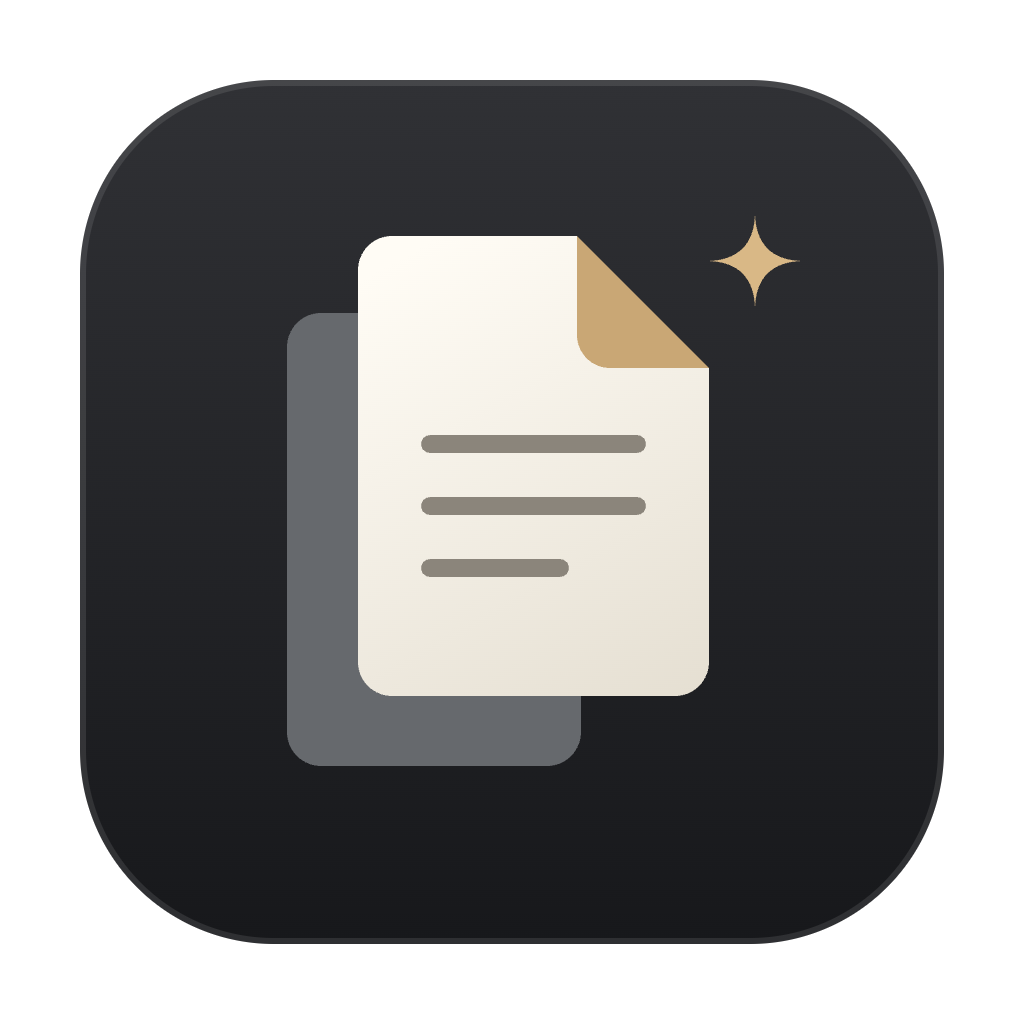
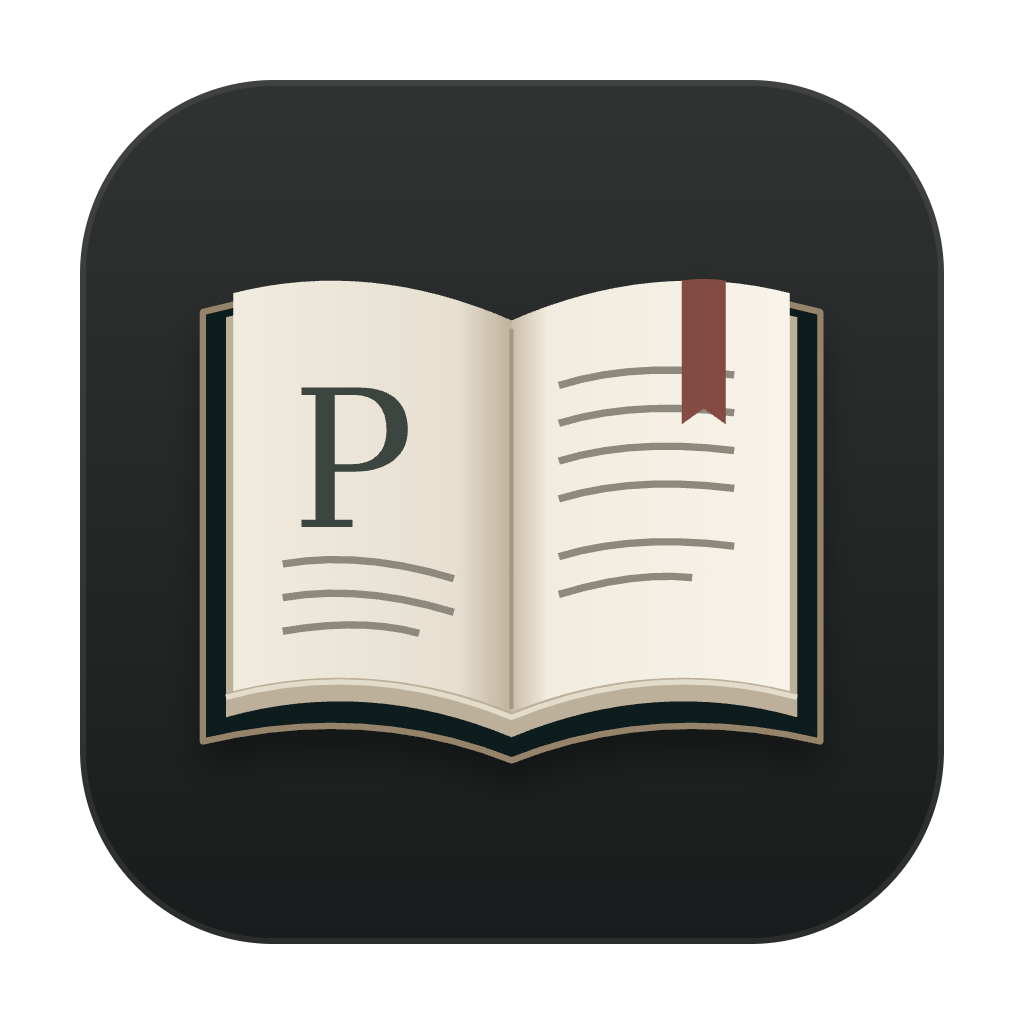
Update PaperGlim identity and Apple Silicon download

Changed region(s): [[0.1875, 0.2188, 0.8125, 0.75]]

diff --git a/paperglim/style.css b/paperglim/style.css
@@ -1,11 +1,11 @@
 @font-face{font-family:Pretendard;src:url('assets/PretendardVariable.woff2') format('woff2');font-weight:100 900;font-style:normal;font-display:swap}
 :root{color-scheme:dark;--ground:#101112;--panel:#191a1c;--line:#313236;--ink:#eeefef;--muted:#a9aaae;--paper:#f1eee7;--wood:#d9b886;--measure:1180px;font-family:Pretendard,-apple-system,BlinkMacSystemFont,sans-serif;color:var(--ink);background:var(--ground);font-synthesis:none;scroll-behavior:smooth;scroll-padding-top:32px}
 *{box-sizing:border-box}body{margin:0;font-size:16px;line-height:1.75;-webkit-font-smoothing:antialiased}a{color:inherit;text-decoration:none;text-underline-offset:4px}button,a,summary{-webkit-tap-highlight-color:transparent}a,summary{touch-action:manipulation}a:focus-visible,summary:focus-visible{outline:2px solid var(--wood);outline-offset:6px;border-radius:3px}::selection{background:#6e5735;color:#fff}::-webkit-scrollbar{width:10px}::-webkit-scrollbar-track{background:var(--ground)}::-webkit-scrollbar-thumb{background:#46474b;border:2px solid var(--ground);border-radius:8px}img{display:block;max-width:100%;height:auto}svg{width:20px;height:20px;fill:none;stroke:currentColor;stroke-width:1.5;stroke-linecap:round;stroke-linejoin:round;flex:none}h1,h2,h3,p,figure{margin:0}h1,h2,h3{text-wrap:balance}h1,h2{font-weight:580;letter-spacing:-.035em;line-height:1.22}h3{font-weight:560;letter-spacing:-.025em;line-height:1.45}p{word-break:keep-all;overflow-wrap:break-word}small{font-size:13px;line-height:1.8}.wrap{width:min(var(--measure),calc(100% - 96px));margin-inline:auto}.skip{position:fixed;left:12px;top:-100px;padding:8px 16px;background:var(--paper);color:var(--ground);z-index:10}.skip:focus{top:12px}.site-header{display:flex;align-items:center;justify-content:space-between;height:104px}.wordmark{display:flex;align-items:center;gap:11px;font-size:22px;font-weight:610;letter-spacing:-.04em}.site-header nav{display:flex;gap:32px;align-items:center;font-size:14px;color:#b9babe}.site-header nav a:hover{color:var(--ink)}.source-link{display:flex;gap:6px;align-items:center}.source-link svg{width:15px;height:15px}
-.hero{display:grid;grid-template-columns:1fr 290px;gap:0 60px;padding-top:88px}.hero h1{font-size:clamp(48px,5.7vw,80px);line-height:1.2}.hero-copy>p{color:var(--muted);font-size:20px;line-height:1.8;margin-top:30px;letter-spacing:-.025em}.hero-download{display:flex;flex-direction:column;align-items:center;justify-content:flex-end;padding-bottom:4px}.app-icon{margin-bottom:14px}.button{display:inline-flex;align-items:center;justify-content:center;gap:10px;border-radius:9px;font-size:15px;font-weight:580;line-height:1.3;min-height:50px;padding:15px 22px;white-space:nowrap;transition:background-color .18s ease}.primary{background:var(--paper);color:#1b1c1e}.primary:hover{background:#fff}.hero-download .primary{width:100%}.intel-link{display:flex;align-items:center;gap:8px;font-size:13px;padding:10px 0 5px;color:#c1c2c6}.intel-link svg{width:15px;height:15px}.intel-link:hover{text-decoration:underline}.download-meta{font-size:12px;color:var(--muted);margin-top:7px}.install-note{font-size:11px;color:var(--muted);text-decoration:underline;margin-top:3px}.product-shot{grid-column:1/-1;margin-top:70px}.product-shot>img{width:100%;border:1px solid #353639;border-radius:12px;box-shadow:0 30px 64px -30px #0009}.product-shot figcaption{display:flex;justify-content:space-between;gap:16px;color:var(--muted);font-size:12px;margin-top:16px}.product-shot figcaption a{display:flex;align-items:center;gap:5px}.product-shot figcaption a:hover{color:var(--ink)}.product-shot figcaption svg{width:14px;height:14px}
+.hero{display:grid;grid-template-columns:1fr 290px;gap:0 60px;padding-top:88px}.hero h1{font-size:clamp(48px,5.7vw,80px);line-height:1.2}.hero-copy>p{color:var(--muted);font-size:20px;line-height:1.8;margin-top:30px;letter-spacing:-.025em}.hero-download{display:flex;flex-direction:column;align-items:center;justify-content:flex-end;padding-bottom:4px}.app-icon{margin-bottom:14px}.button{display:inline-flex;align-items:center;justify-content:center;gap:10px;border-radius:9px;font-size:15px;font-weight:580;line-height:1.3;min-height:50px;padding:15px 22px;white-space:nowrap;transition:background-color .18s ease}.primary{background:var(--paper);color:#1b1c1e}.primary:hover{background:#fff}.hero-download .primary{width:100%}.download-meta{font-size:12px;color:var(--muted);margin-top:7px}.install-note{font-size:11px;color:var(--muted);text-decoration:underline;margin-top:3px}.product-shot{grid-column:1/-1;margin-top:70px}.product-shot>img{width:100%;border:1px solid #353639;border-radius:12px;box-shadow:0 30px 64px -30px #0009}.product-shot figcaption{display:flex;justify-content:space-between;gap:16px;color:var(--muted);font-size:12px;margin-top:16px}.product-shot figcaption a{display:flex;align-items:center;gap:5px}.product-shot figcaption a:hover{color:var(--ink)}.product-shot figcaption svg{width:14px;height:14px}
 .reading{padding-top:140px}.section-heading{display:flex;justify-content:space-between;align-items:flex-end;gap:48px}.section-heading h2,.connections>h2{font-size:40px}.section-heading>p{color:var(--muted);font-size:15px;margin-bottom:4px;line-height:1.9}.reading-detail{margin-top:60px;display:grid;grid-template-columns:320px minmax(0,1fr);gap:65px;align-items:center}.feature-copy h3,.feature-pair h3{font-size:22px;margin-bottom:14px}.feature-copy>p,.feature-pair p{font-size:15px;color:var(--muted);line-height:1.9}.feature-copy .feature-footnote{margin-top:24px;font-size:13px;color:#b8a285}.detail-shot{overflow:hidden;background:var(--panel);border-radius:10px}.detail-shot>img{width:100%;height:auto}.feature-pair{display:grid;grid-template-columns:1fr 1fr;gap:100px;margin-top:65px;padding-top:42px;border-top:1px solid var(--line)}.feature-pair article{max-width:470px}.feature-icon{width:27px;height:27px;color:#bebfc2;margin-bottom:20px}.connections{padding-top:140px;display:grid;grid-template-columns:1fr 1.25fr;gap:100px}.connection-list article+article{padding-top:35px;margin-top:35px;border-top:1px solid var(--line)}.connection-name{display:flex;align-items:center;gap:9px;margin-bottom:15px}.connection-name img{max-width:26px;max-height:26px;object-fit:contain;filter:brightness(0) invert(.92)}.connection-name h3{font-size:20px;margin-left:6px}.connection-name .zotero-mark{width:26px;height:26px;stroke:#d0d1d3;stroke-width:2.3}.connection-list p{font-size:15px;line-height:1.9;color:#c3c4c7}.connection-list small{display:block;color:var(--muted);margin-top:12px}
 .install{padding-top:140px}.install-steps{padding:0;list-style:none;counter-reset:setup;margin:56px 0 0;display:grid;grid-template-columns:repeat(3,minmax(0,1fr));gap:50px}.install-steps li{counter-increment:setup;border-top:1px solid var(--line);padding-top:24px}.install-steps li:before{content:counter(setup);display:flex;align-items:center;justify-content:center;width:28px;height:28px;border:1px solid #5a5b60;border-radius:50%;font-size:12px;color:#c7c8cc;margin-bottom:24px}.install-steps h3{font-size:19px;margin-bottom:14px}.install-steps p{color:var(--muted);font-size:14px;line-height:1.9}.install-steps a,.first-open>a{display:inline-block;font-size:12px;text-decoration:underline;color:#c4c5c9;margin-top:20px}.install-steps a:hover,.first-open>a:hover{color:white}.text-links{display:flex;gap:18px;flex-wrap:wrap}.first-open{margin-top:48px;padding:28px 32px;background:#1a1b1e;border-radius:10px;display:grid;grid-template-columns:160px 1fr;gap:0 24px}.first-open h3{font-size:16px;line-height:1.8}.first-open p{font-size:13px;color:#b8b9bf;line-height:1.9}.first-open strong{font-weight:560;color:#dadbe0}.first-open>a{grid-column:2;margin-top:12px}.faq{padding-top:125px;display:grid;grid-template-columns:.85fr 1.4fr;gap:60px}.faq h2{font-size:29px}.faq-list{border-top:1px solid var(--line)}details{border-bottom:1px solid var(--line)}summary{list-style:none;cursor:pointer;display:flex;align-items:center;justify-content:space-between;gap:24px;padding:22px 0;font-size:15px;font-weight:480;word-break:keep-all}summary::-webkit-details-marker{display:none}summary svg{width:17px;height:17px;color:var(--muted);transition:transform .15s ease}details[open] summary svg{transform:rotate(45deg)}details p{font-size:14px;color:var(--muted);padding:0 36px 25px 0;line-height:1.9}
 .closing{border-top:1px solid var(--line);margin-top:140px;padding-top:52px;padding-bottom:58px;display:flex;align-items:center;gap:20px}.closing h2{font-size:27px}.closing p{font-size:14px;color:var(--muted);margin-top:7px}.closing .button{margin-left:auto;font-size:14px}footer{border-top:1px solid var(--line);padding-top:30px;padding-bottom:30px;display:flex;align-items:center;justify-content:space-between;flex-wrap:wrap;gap:24px;color:var(--muted);font-size:12px}footer>div{display:flex;gap:20px;align-items:center}.footer-brand{font-size:14px;font-weight:560;color:var(--ink)}footer p{flex-basis:100%;font-size:11px;color:#939499}footer a:hover{text-decoration:underline}
 @media(min-width:1600px){:root{--measure:1280px}.hero{padding-top:102px}.hero h1{font-size:86px}}
 @media(max-width:1000px){.wrap{width:calc(100% - 64px)}.hero{grid-template-columns:1fr 252px;gap:0 28px;padding-top:60px}.hero h1{font-size:clamp(44px,5.5vw,60px)}.hero-copy>p{font-size:17px}.hero-download .app-icon{width:72px}.hero-download .button{font-size:13px;padding-inline:16px}.reading,.connections,.install{padding-top:100px}.section-heading h2,.connections>h2{font-size:34px}.reading-detail{grid-template-columns:260px minmax(0,1fr);gap:36px}.feature-pair{gap:50px}.connections{gap:45px}.install-steps{gap:30px}.faq{gap:30px;grid-template-columns:.8fr 1.4fr}.faq h2{font-size:24px}.closing{margin-top:100px}.closing h2{font-size:23px}.closing .button{font-size:12px}.closing>img{width:62px}}
-@media(max-width:720px){.wrap{width:calc(100% - 40px)}.site-header{height:80px}.wordmark{font-size:20px;gap:8px}.wordmark img{width:25px}.site-header nav{gap:20px;font-size:13px}.site-header nav>a:first-child{display:none}.source-link svg{display:none}.hero{display:flex;flex-direction:column;padding-top:52px}.hero h1{font-size:clamp(40px,8.6vw,58px);line-height:1.22;letter-spacing:-.04em}.hero-copy>p{font-size:16px;margin-top:24px;line-height:1.85}.hero-download{align-items:flex-start;padding:0;margin-top:32px}.hero-download .app-icon{display:none}.hero-download .primary{width:auto;font-size:14px;padding-inline:22px}.intel-link{padding-top:13px}.download-meta{margin-top:8px}.install-note{font-size:11px}.product-shot{margin-top:42px;width:100%}.product-shot>img{border-radius:7px}.product-shot figcaption{font-size:10px;margin-top:10px;gap:8px}.product-shot figcaption svg{width:12px;height:12px}.reading{padding-top:82px}.section-heading{display:block}.section-heading h2,.connections>h2{font-size:31px}.section-heading>p{margin-top:20px;font-size:14px}.reading-detail{margin-top:36px;display:flex;flex-direction:column;gap:28px;align-items:stretch}.feature-copy{max-width:50ch}.feature-copy h3,.feature-pair h3{font-size:20px}.feature-copy>p,.feature-pair p{font-size:14px}.feature-copy .feature-footnote{margin-top:14px;font-size:12px}.detail-shot{border-radius:7px}.feature-pair{grid-template-columns:1fr;gap:35px;margin-top:35px;padding-top:35px}.feature-icon{margin-bottom:15px}.connections{display:block;padding-top:84px}.connection-list{margin-top:36px}.connection-name h3{font-size:19px}.connection-list p{font-size:14px}.connection-list small{font-size:12px}.install{padding-top:84px}.install-steps{display:block;margin-top:36px}.install-steps li{display:flex;gap:20px;padding-top:24px;margin-top:28px}.install-steps li:before{flex:none;margin:1px 0 0}.install-steps h3{font-size:18px;margin-bottom:10px}.install-steps p{font-size:13px}.install-steps a{margin-top:14px;font-size:12px}.first-open{margin-top:35px;display:block;padding:22px}.first-open h3{margin-bottom:10px}.first-open p{font-size:12px}.first-open>a{font-size:11px}.faq{padding-top:80px;display:block}.faq h2{font-size:25px;margin-bottom:30px}summary{font-size:14px;padding-block:20px}details p{padding-right:10px;font-size:13px}.closing{margin-top:80px;padding-top:35px;padding-bottom:35px;flex-wrap:wrap;gap:15px}.closing>img{width:60px}.closing h2{font-size:21px}.closing p{font-size:13px;margin-top:5px}.closing .button{margin-left:0;min-height:46px;font-size:13px}footer{padding-top:25px;padding-bottom:25px;gap:20px}footer>div{gap:16px}footer>div:first-child{flex-basis:100%}footer p{font-size:10px}}
+@media(max-width:720px){.wrap{width:calc(100% - 40px)}.site-header{height:80px}.wordmark{font-size:20px;gap:8px}.wordmark img{width:25px}.site-header nav{gap:20px;font-size:13px}.site-header nav>a:first-child{display:none}.source-link svg{display:none}.hero{display:flex;flex-direction:column;padding-top:52px}.hero h1{font-size:clamp(40px,8.6vw,58px);line-height:1.22;letter-spacing:-.04em}.hero-copy>p{font-size:16px;margin-top:24px;line-height:1.85}.hero-download{align-items:flex-start;padding:0;margin-top:32px}.hero-download .app-icon{display:none}.hero-download .primary{width:auto;font-size:14px;padding-inline:22px}.download-meta{margin-top:8px}.install-note{font-size:11px}.product-shot{margin-top:42px;width:100%}.product-shot>img{border-radius:7px}.product-shot figcaption{font-size:10px;margin-top:10px;gap:8px}.product-shot figcaption svg{width:12px;height:12px}.reading{padding-top:82px}.section-heading{display:block}.section-heading h2,.connections>h2{font-size:31px}.section-heading>p{margin-top:20px;font-size:14px}.reading-detail{margin-top:36px;display:flex;flex-direction:column;gap:28px;align-items:stretch}.feature-copy{max-width:50ch}.feature-copy h3,.feature-pair h3{font-size:20px}.feature-copy>p,.feature-pair p{font-size:14px}.feature-copy .feature-footnote{margin-top:14px;font-size:12px}.detail-shot{border-radius:7px}.feature-pair{grid-template-columns:1fr;gap:35px;margin-top:35px;padding-top:35px}.feature-icon{margin-bottom:15px}.connections{display:block;padding-top:84px}.connection-list{margin-top:36px}.connection-name h3{font-size:19px}.connection-list p{font-size:14px}.connection-list small{font-size:12px}.install{padding-top:84px}.install-steps{display:block;margin-top:36px}.install-steps li{display:flex;gap:20px;padding-top:24px;margin-top:28px}.install-steps li:before{flex:none;margin:1px 0 0}.install-steps h3{font-size:18px;margin-bottom:10px}.install-steps p{font-size:13px}.install-steps a{margin-top:14px;font-size:12px}.first-open{margin-top:35px;display:block;padding:22px}.first-open h3{margin-bottom:10px}.first-open p{font-size:12px}.first-open>a{font-size:11px}.faq{padding-top:80px;display:block}.faq h2{font-size:25px;margin-bottom:30px}summary{font-size:14px;padding-block:20px}details p{padding-right:10px;font-size:13px}.closing{margin-top:80px;padding-top:35px;padding-bottom:35px;flex-wrap:wrap;gap:15px}.closing>img{width:60px}.closing h2{font-size:21px}.closing p{font-size:13px;margin-top:5px}.closing .button{margin-left:0;min-height:46px;font-size:13px}footer{padding-top:25px;padding-bottom:25px;gap:20px}footer>div{gap:16px}footer>div:first-child{flex-basis:100%}footer p{font-size:10px}}
 @media(prefers-reduced-motion:reduce){:root{scroll-behavior:auto}*,*:before,*:after{transition:none!important}}

diff --git a/paperglim/index.html b/paperglim/index.html
@@ -13,8 +13,8 @@
   <meta property="og:url" content="https://iontail.github.io/paperglim/">
   <meta property="og:image" content="https://iontail.github.io/paperglim/assets/reader.png">
   <meta name="twitter:card" content="summary_large_image">
-  <link rel="icon" type="image/svg+xml" href="assets/icon.svg">
-  <link rel="apple-touch-icon" href="assets/icon.png">
+  <link rel="icon" type="image/svg+xml" href="assets/icon.svg?v=0.1.1">
+  <link rel="apple-touch-icon" href="assets/icon.png?v=0.1.1">
   <link rel="preload" href="assets/PretendardVariable.woff2" as="font" type="font/woff2" crossorigin>
   <link rel="stylesheet" href="style.css">
   <script src="script.js" defer></script>
@@ -22,17 +22,16 @@
 <body>
   <a class="skip" href="#main">본문으로 이동</a>
   <header class="site-header wrap">
-    <a class="wordmark" href="./" aria-label="PaperGlim 홈"><img src="assets/mark.svg" width="29" height="31" alt="">PaperGlim</a>
+    <a class="wordmark" href="./" aria-label="PaperGlim 홈"><img src="assets/mark.svg?v=0.1.1" width="29" height="31" alt="">PaperGlim</a>
     <nav aria-label="메인 메뉴"><a href="#reading">읽기 방식</a><a href="#install">설치 안내</a><a class="source-link" href="https://github.com/iontail/PaperGlim">GitHub<svg viewBox="0 0 20 20" aria-hidden="true"><path d="M5 15 15 5M5 5h10v10"/></svg></a></nav>
   </header>
   <main id="main">
     <section class="hero wrap" aria-labelledby="hero-title">
       <div class="hero-copy"><h1 id="hero-title">논문을 읽는 흐름,<br>그대로.</h1><p>번역도, 질문도, 정리도. PDF 바로 곁에서.<br>내 AI와 함께 읽는 macOS 논문 리더.</p></div>
       <div class="hero-download">
-        <img class="app-icon" src="assets/icon.png" alt="겹친 종이와 빛을 담은 PaperGlim 앱 아이콘" width="94" height="94">
-        <a class="button primary" href="https://github.com/iontail/PaperGlim/releases/download/v0.1.0/PaperGlim-0.1.0-mac-arm64.dmg"><svg viewBox="0 0 20 20" aria-hidden="true"><path d="M10 2v11m-4-4 4 4 4-4M3 13v4h14v-4"/></svg>Apple Silicon 다운로드</a>
-        <a class="intel-link" href="https://github.com/iontail/PaperGlim/releases/download/v0.1.0/PaperGlim-0.1.0-mac-x64.dmg">Intel Mac 다운로드<svg viewBox="0 0 20 20" aria-hidden="true"><path d="M4 10h12m-5-5 5 5-5 5"/></svg></a>
-        <p class="download-meta">v0.1.0 베타 · macOS 13 이상 · 무료</p>
+        <img class="app-icon" src="assets/icon.png?v=0.1.1" alt="펼친 학술 서적과 책갈피를 담은 PaperGlim 앱 아이콘" width="94" height="94">
+        <a class="button primary" href="https://github.com/iontail/PaperGlim/releases/download/v0.1.1/PaperGlim-0.1.1-mac-arm64.dmg"><svg viewBox="0 0 20 20" aria-hidden="true"><path d="M10 2v11m-4-4 4 4 4-4M3 13v4h14v-4"/></svg>Apple Silicon 다운로드</a>
+        <p class="download-meta">v0.1.1 베타 · Apple Silicon · macOS 13 이상</p>
         <a class="install-note" href="#first-open">Apple 공증 전 테스트 버전 · 처음 여는 방법</a>
       </div>
       <figure class="product-shot">
@@ -68,7 +67,7 @@
     <section id="install" class="install wrap" aria-labelledby="install-title">
       <div class="section-heading"><h2 id="install-title">첫 논문을 열기까지.</h2><p>PDF 읽기는 바로 시작할 수 있어요.<br>AI와 Zotero는 필요할 때 연결하세요.</p></div>
       <ol class="install-steps">
-        <li><div><h3>Mac에 앱을 옮겨요.</h3><p>Mac의 칩에 맞는 DMG를 내려받아 열고, PaperGlim을 Applications 폴더로 드래그하세요. PDF를 앱에 놓으면 읽기를 시작할 수 있어요.</p><a href="#first-open">처음 실행할 때 확인할 내용</a></div></li>
+        <li><div><h3>Mac에 앱을 옮겨요.</h3><p>Apple Silicon용 DMG를 내려받아 열고, PaperGlim을 Applications 폴더로 드래그하세요. PDF를 앱에 놓으면 읽기를 시작할 수 있어요.</p><a href="#first-open">처음 실행할 때 확인할 내용</a></div></li>
         <li><div><h3>내 AI를 연결해요.</h3><p>Codex 또는 Claude Code를 설치하고, 터미널에서 한 번 로그인해 주세요. 앱의 연결 설정에서 설치 여부를 확인한 뒤 모델을 고르면 돼요.</p><div class="text-links"><a href="https://developers.openai.com/codex/cli/">Codex 설치 안내</a><a href="https://code.claude.com/docs/en/setup">Claude Code 설치 안내</a></div></div></li>
         <li><div><h3>Zotero도 함께 써요.</h3><p>Zotero 설정의 고급 메뉴에서 “이 컴퓨터의 다른 애플리케이션이 Zotero와 통신할 수 있도록 허용”을 켜주세요. Zotero를 실행한 채 앱에서 동기화를 누르면 돼요.</p><a href="https://www.zotero.org/support/dev/web_api/v3/local_api">Zotero 로컬 API 안내</a></div></li>
       </ol>
@@ -80,13 +79,13 @@
       <div class="faq-list">
         <details><summary>추가 결제나 API 키가 필요한가요?<svg viewBox="0 0 20 20" aria-hidden="true"><path d="M4 10h12M10 4v12"/></svg></summary><p>PaperGlim은 무료이며 자체 AI 요금을 청구하지 않아요. AI 기능은 사용자가 설치하고 인증한 Codex 또는 Claude Code CLI로 실행돼요. 사용 권한과 한도, 비용은 연결한 서비스의 계정 설정을 따라요. Codex Fast는 지원 계정에서만 선택할 수 있고 한도를 더 소모해요. Claude Fast는 앱에서 제공하지 않아요.</p></details>
         <details><summary>내 PDF와 대화는 어디에 저장되나요?<svg viewBox="0 0 20 20" aria-hidden="true"><path d="M4 10h12M10 4v12"/></svg></summary><p>논문 목록과 읽던 위치, 저장한 선택 영역 설명은 Mac에 보관돼요. PaperGlim의 별도 서버는 없어요. AI를 요청하면 필요한 논문 텍스트와 해당 대화가 연결한 AI 서비스로 전송돼요. 오른쪽 패널의 대화는 앱 안에서 임시로 유지되며 새 대화나 앱 종료로 지울 수 있어요. CLI는 매 요청 기록을 남기지 않는 모드로 실행하지만, AI 서비스 자체의 데이터 처리는 해당 서비스의 정책을 따라요.</p></details>
-        <details><summary>어떤 Mac과 PDF를 지원하나요?<svg viewBox="0 0 20 20" aria-hidden="true"><path d="M4 10h12M10 4v12"/></svg></summary><p>macOS 13 이상의 Apple Silicon과 Intel Mac용이에요. 텍스트를 선택할 수 있는 PDF를 지원해요. 스캔 PDF의 OCR, Zotero 그룹 라이브러리와 주석 동기화는 아직 지원하지 않아요. 복잡한 수식·표·다단 문서는 번역 범위나 문장 연결이 어긋날 수 있고, AI의 답변과 번역은 원문과 함께 확인해야 해요.</p></details>
+        <details><summary>어떤 Mac과 PDF를 지원하나요?<svg viewBox="0 0 20 20" aria-hidden="true"><path d="M4 10h12M10 4v12"/></svg></summary><p>macOS 13 이상의 Apple Silicon Mac 전용이에요. Intel Mac은 지원하지 않아요. 텍스트를 선택할 수 있는 PDF를 지원해요. 스캔 PDF의 OCR, Zotero 그룹 라이브러리와 주석 동기화는 아직 지원하지 않아요. 복잡한 수식·표·다단 문서는 번역 범위나 문장 연결이 어긋날 수 있고, AI의 답변과 번역은 원문과 함께 확인해야 해요.</p></details>
         <details><summary>Chrome에서 PDF를 열면 자동으로 연결되나요?<svg viewBox="0 0 20 20" aria-hidden="true"><path d="M4 10h12M10 4v12"/></svg></summary><p>현재는 내려받은 PDF 파일을 앱에서 여는 방식이에요. Finder에서 PDF의 기본 연결 앱으로 PaperGlim을 지정할 수 있어요. 브라우저 내 PDF 화면을 자동으로 대체하는 확장 기능은 아직 없어요.</p></details>
       </div>
     </section>
 
-    <section class="closing wrap" aria-labelledby="closing-title"><img src="assets/icon.png" width="76" height="76" alt=""><div><h2 id="closing-title">다음 논문은, PaperGlim에서.</h2><p>읽기는 가까이, 이해는 조금 더 깊이.</p></div><a class="button primary" href="https://github.com/iontail/PaperGlim/releases/tag/v0.1.0">다운로드 파일 모두 보기<svg viewBox="0 0 20 20" aria-hidden="true"><path d="M4 10h12m-5-5 5 5-5 5"/></svg></a></section>
+    <section class="closing wrap" aria-labelledby="closing-title"><img src="assets/icon.png?v=0.1.1" width="76" height="76" alt=""><div><h2 id="closing-title">다음 논문은, PaperGlim에서.</h2><p>읽기는 가까이, 이해는 조금 더 깊이.</p></div><a class="button primary" href="https://github.com/iontail/PaperGlim/releases/tag/v0.1.1">다운로드 파일 모두 보기<svg viewBox="0 0 20 20" aria-hidden="true"><path d="M4 10h12m-5-5 5 5-5 5"/></svg></a></section>
   </main>
-  <footer class="wrap"><div><a class="footer-brand" href="./">PaperGlim</a><span>만든 사람 <a href="https://iontail.github.io/">iontail</a></span></div><div><a href="https://github.com/iontail/PaperGlim/releases/tag/v0.1.0">릴리스 노트</a><a href="https://github.com/iontail/PaperGlim/issues">문제 제보</a><a href="https://github.com/iontail/PaperGlim">소스 코드</a></div><p>화면에 사용한 논문: <a href="https://arxiv.org/abs/1512.03385">He et al., Deep Residual Learning for Image Recognition</a>. 번역과 답변은 AI 생성 결과예요.</p></footer>
+  <footer class="wrap"><div><a class="footer-brand" href="./">PaperGlim</a><span>만든 사람 <a href="https://iontail.github.io/">iontail</a></span></div><div><a href="https://github.com/iontail/PaperGlim/releases/tag/v0.1.1">릴리스 노트</a><a href="https://github.com/iontail/PaperGlim/issues">문제 제보</a><a href="https://github.com/iontail/PaperGlim">소스 코드</a></div><p>화면에 사용한 논문: <a href="https://arxiv.org/abs/1512.03385">He et al., Deep Residual Learning for Image Recognition</a>. 번역과 답변은 AI 생성 결과예요.</p></footer>
 </body>
 </html>
